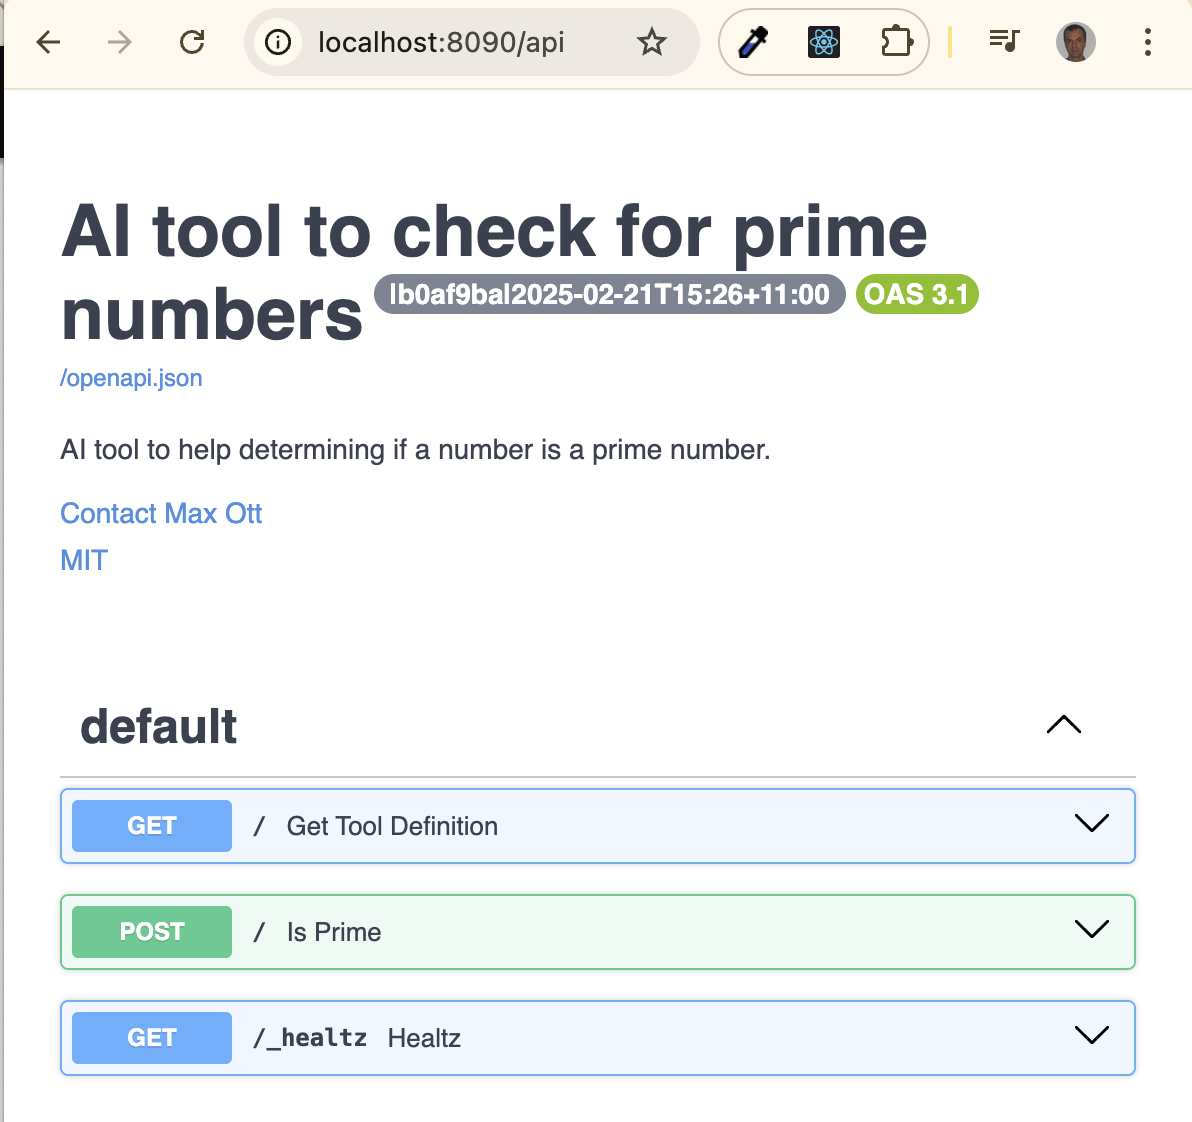
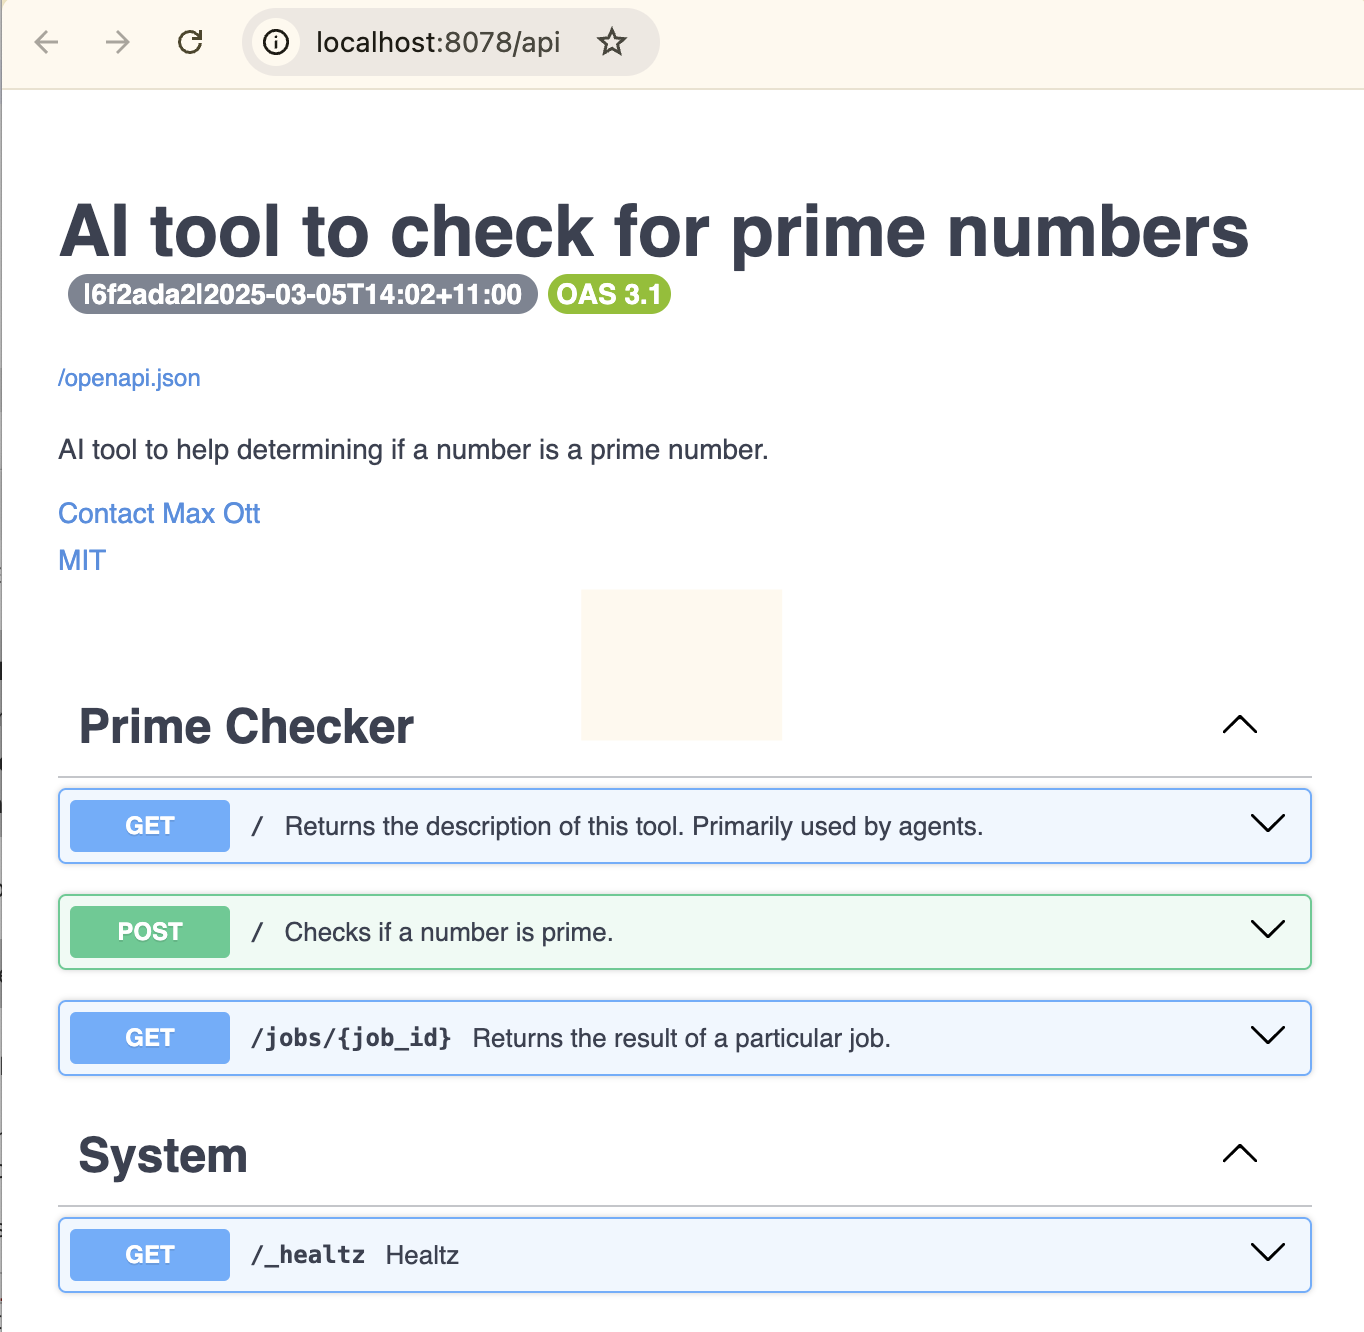
bring up to new ivcap-ai-tool library

diff --git a/tool-service.py b/tool-service.py
@@ -1,13 +1,16 @@
 import os
 import sys
-
-from fastapi import Body, FastAPI
+import math
+from pydantic import BaseModel, Field
+from fastapi import FastAPI
 from signal import signal, SIGTERM
 
-from ivcap_fastapi import getLogger, logging_init
-from ivcap_ai_tool import create_tool_definition, start_tool_server
+this_dir = os.path.dirname(__file__)
+src_dir = os.path.abspath(os.path.join(this_dir, "../../src"))
+sys.path.insert(0, src_dir)
 
-import math
+from ivcap_fastapi import getLogger, logging_init
+from ivcap_ai_tool import start_tool_server, add_tool_api_route, ToolOptions
 
 logging_init()
 logger = getLogger("app")
@@ -36,38 +39,33 @@ app = FastAPI(
     root_path=os.environ.get("IVCAP_ROOT_PATH", "")
 )
 
-@app.post("/")
-def is_prime(number: int = Body(..., embed=True)) -> bool:
-    """
-    Checks if a number is a prime number.
+class Request(BaseModel):
+    jschema: str = Field("urn:sd:schema:is-prime.request.1", alias="$schema")
+    number: int = Field(description="the number to check if prime")
 
-    Args:
-        number: The number to check.
+class Result(BaseModel):
+    jschema: str = Field("urn:sd:schema:is-prime.1", alias="$schema")
+    flag: bool = Field(description="true if number is prime, false otherwise")
 
-    Returns:
-        True if the number is prime, False otherwise.
+def is_prime(req: Request) -> Result:
     """
+    Checks if a number is prime.
+    """
+    number = req.number
     if number <= 1:
-        return False
+        return Result(flag=False)
     if number <= 3:
-        return True
+        return Result(flag=True)
     if number % 2 == 0 or number % 3 == 0:
-        return False
+        return Result(flag=False)
 
     for i in range(5, int(math.sqrt(number)) + 1, 6):
         if number % i == 0 or number % (i + 2) == 0:
-            return False
+            return Result(flag=False)
 
-    return True
+    return Result(flag=True)
 
-@app.get("/")
-def get_tool_definition():
-    return create_tool_definition(is_prime)
+add_tool_api_route(app, "/", is_prime, opts=ToolOptions(tags=["Prime Checker"]))
 
-# Allows platform to check if everything is OK
-@app.get("/_healtz")
-def healtz():
-    return {"version": os.environ.get("VERSION", "???")}
-
-# Start server
-start_tool_server(app, title, is_prime, logger)
+if __name__ == "__main__":
+    start_tool_server(app, is_prime)

diff --git a/README.md b/README.md
@@ -42,13 +42,13 @@ env VERSION="|b0af9ba|2025-02-21T15:26+11:00" \
 2025-02-21T15:26:57+1100 INFO (uvicorn.error): Started server process [96586]
 2025-02-21T15:26:57+1100 INFO (uvicorn.error): Waiting for application startup.
 2025-02-21T15:26:57+1100 INFO (uvicorn.error): Application startup complete.
-2025-02-21T15:26:57+1100 INFO (uvicorn.error): Uvicorn running on http://0.0.0.0:8094 (Press CTRL+C to quit)
+2025-02-21T15:26:57+1100 INFO (uvicorn.error): Uvicorn running on http://0.0.0.0:8078 (Press CTRL+C to quit)
 ```
 
 In a separate terminal, call the service via `make test-local` or your favorite http testing tool:
 ```
 % make test-local
-curl -i -X POST -H "content-type: application/json" --data "{\"number\": 997}" http://localhost:8094
+curl -i -X POST -H "content-type: application/json" --data "{\"number\": 997}" http://localhost:8078
 HTTP/1.1 200 OK
 date: Fri, 21 Feb 2025 04:21:50 GMT
 server: uvicorn
@@ -58,7 +58,7 @@ content-type: application/json
 true%
 ```
 
-A more "web friendly" way is to open [http://localhost:8094/api](http://localhost:8094/api)
+A more "web friendly" way is to open [http://localhost:8078/api](http://localhost:8078/api)
 
 <img src="openapi.png" width="400"/>
 
@@ -83,11 +83,11 @@ You may first want to locally test the build and execution of the docker contain
 
 ```
 % make docker-build
-Building docker image 'is_prime_tool' for 'linux/arm64'
+Building docker image 'is_prime_tool-arm64'
 docker build \
-                -t is_prime_tool:latest \
+                -t is_prime_tool-arm64 \
                 --platform=linux/arm64 \
-                --build-arg VERSION="|b0af9ba|2025-02-21T15:34+11:00" \
+                --build-arg VERSION="|6f2ada2|2025-03-05T14:06+11:00" \
                 -f .../Dockerfile \
                 ...
 ```
@@ -96,32 +96,32 @@ and then test it by first starting the docker service:
 
 ```
 % make docker-run
+Building docker image 'is_prime_tool-arm64'
+docker build \
+  ...
 docker run -it \
-                -p 8094:80 \
+                -p 8078:8078 \
                 --platform=linux/arm64 \
                 --rm \
-                is_prime_tool:latest
+                is_prime_tool-arm64 --port 8078
 2025-02-21T04:35:27+0000 INFO (app): AI tool to check for prime numbers - |b0af9ba|2025-02-21T15:34+11:00
 2025-02-21T04:35:27+0000 INFO (uvicorn.error): Started server process [1]
 2025-02-21T04:35:27+0000 INFO (uvicorn.error): Waiting for application startup.
 2025-02-21T04:35:27+0000 INFO (uvicorn.error): Application startup complete.
-2025-02-21T04:35:27+0000 INFO (uvicorn.error): Uvicorn running on http://0.0.0.0:8094 (Press CTRL+C to quit)
+2025-02-21T04:35:27+0000 INFO (uvicorn.error): Uvicorn running on http://0.0.0.0:8078 (Press CTRL+C to quit)
 ```
 
 and then in a different terminal to already above mentioned:
 ```
 % make test-local
-curl -i -X POST -H "content-type: application/json" --data "{\"number\": 997}" http://localhost:8094
+curl -i -X POST -H "content-type: application/json" --data "{\"number\": 997}" http://localhost:8078
 HTTP/1.1 200 OK
 ...
-content-length: 4
+content-length: 50
 content-type: application/json
 
-true%
+{"$schema":"urn:sd:schema:is-prime.1","flag":true}%
 ```
-
-
-
 
 ## Implementation <a name="implementation"></a>
 
@@ -133,7 +133,7 @@ if the number contained in the request is a prime number or not.
 We first configure the logging system to use a more "machine" friendly format to simplify service monitoring on the platform.
 
 ```
-from ivcap_fastapi import getLogger, service_log_config, logging_init
+from ivcap_ai_tool import start_tool_server, add_tool_api_route, ToolOptions
 
 logging_init()
 logger = getLogger("app")
@@ -171,18 +171,20 @@ The core function of the tool itself is accessible as `POST /`. The service sign
 comprehensive function documentation including the required parameters as well as the reply.
 
 ```
-@app.post("/")
-def is_prime(number: int = Body(..., embed=True)) -> bool:
+class Request(BaseModel):
+    jschema: str = Field("urn:sd:schema:is-prime.request.1", alias="$schema")
+    number: int = Field(description="the number to check if prime")
+
+class Result(BaseModel):
+    jschema: str = Field("urn:sd:schema:is-prime.1", alias="$schema")
+    flag: bool = Field(description="true if number is prime, false otherwise")
+
+def is_prime(req: Request) -> Result:
     """
     Checks if a number is a prime number.
-
-    Args:
-        number: The number to check.
-
-    Returns:
-        True if the number is prime, False otherwise.
     """
     ...
+    return Result(flag=True)
 ```
 
 In addition to the main "tool" implementation we need two more service
@@ -190,21 +192,16 @@ endpoints to allow the platform to obtain the tool description (`GET /`)
 as well as test the liveness of the agent (`GET /_healtz`).
 
 ```
-@app.get("/")
-def get_metadata():
-    return create_tool_definition(is_prime)
-
-# Allows platform to check if everything is OK
-@app.get("/_healtz")
-def healtz():
-    return {"version": os.environ.get("VERSION", "???")}
+add_tool_api_route(app, "/", is_prime, opts=ToolOptions(tags=["Prime Checker"]))
 ```
 
-Finally, we need to start the server to listen for incoming requests:
+Finally, we need to register the main "tool" implementation and start the server
+to listen for incoming requests:
 
 ```
 # Start server
-start_server(app, title, is_prime, logger)
+if __name__ == "__main__":
+    start_tool_server(app, is_prime)
 ```
 
 
